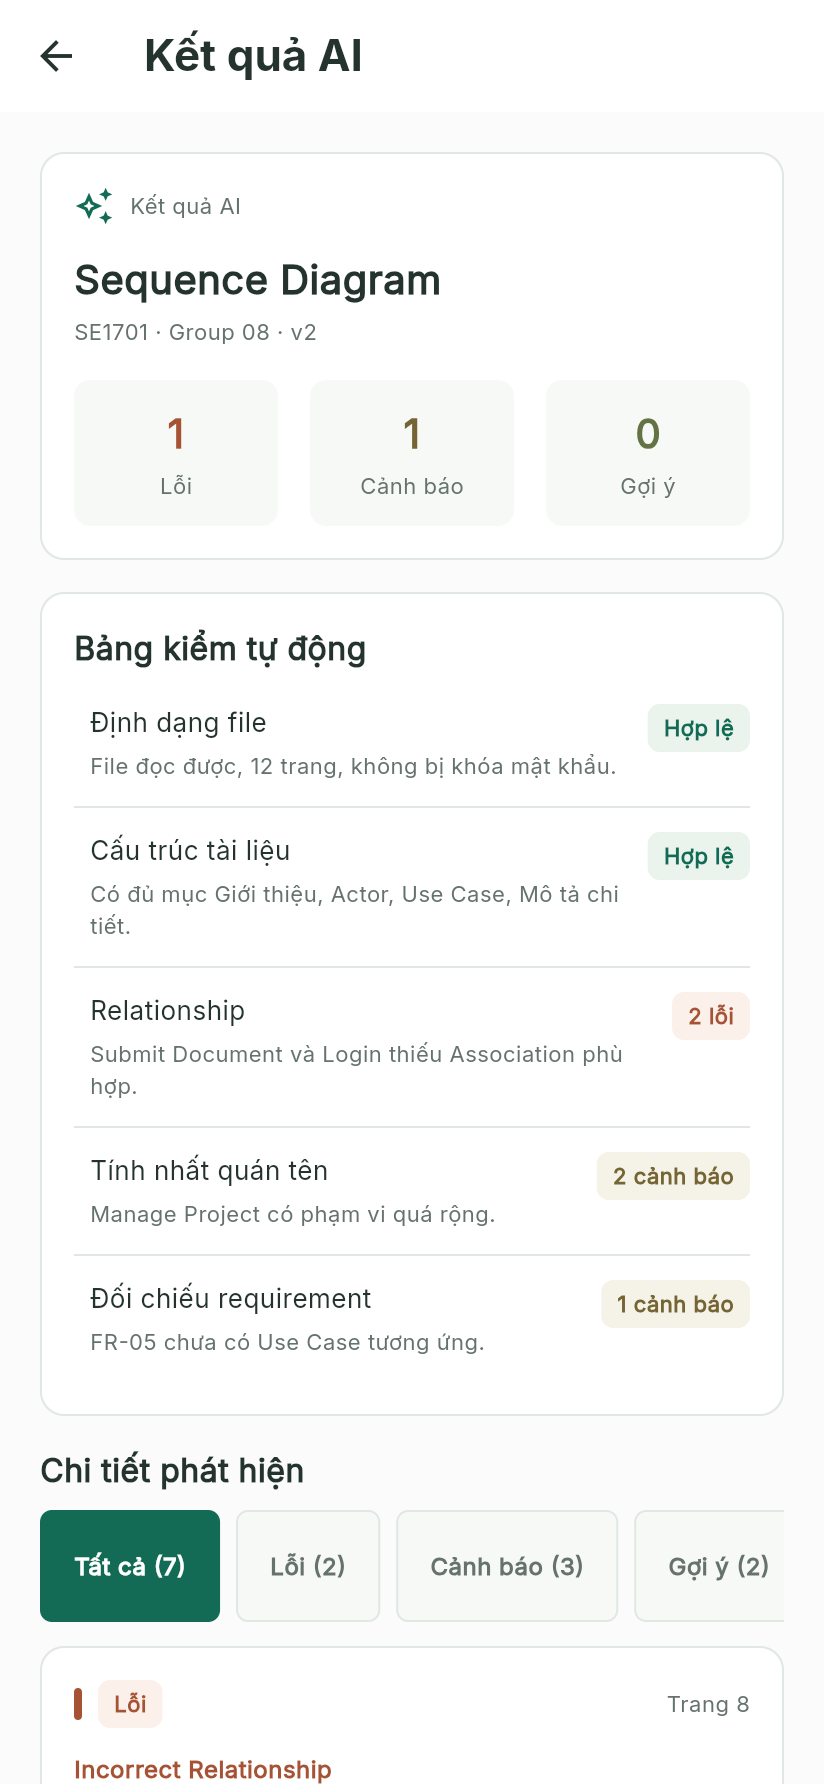
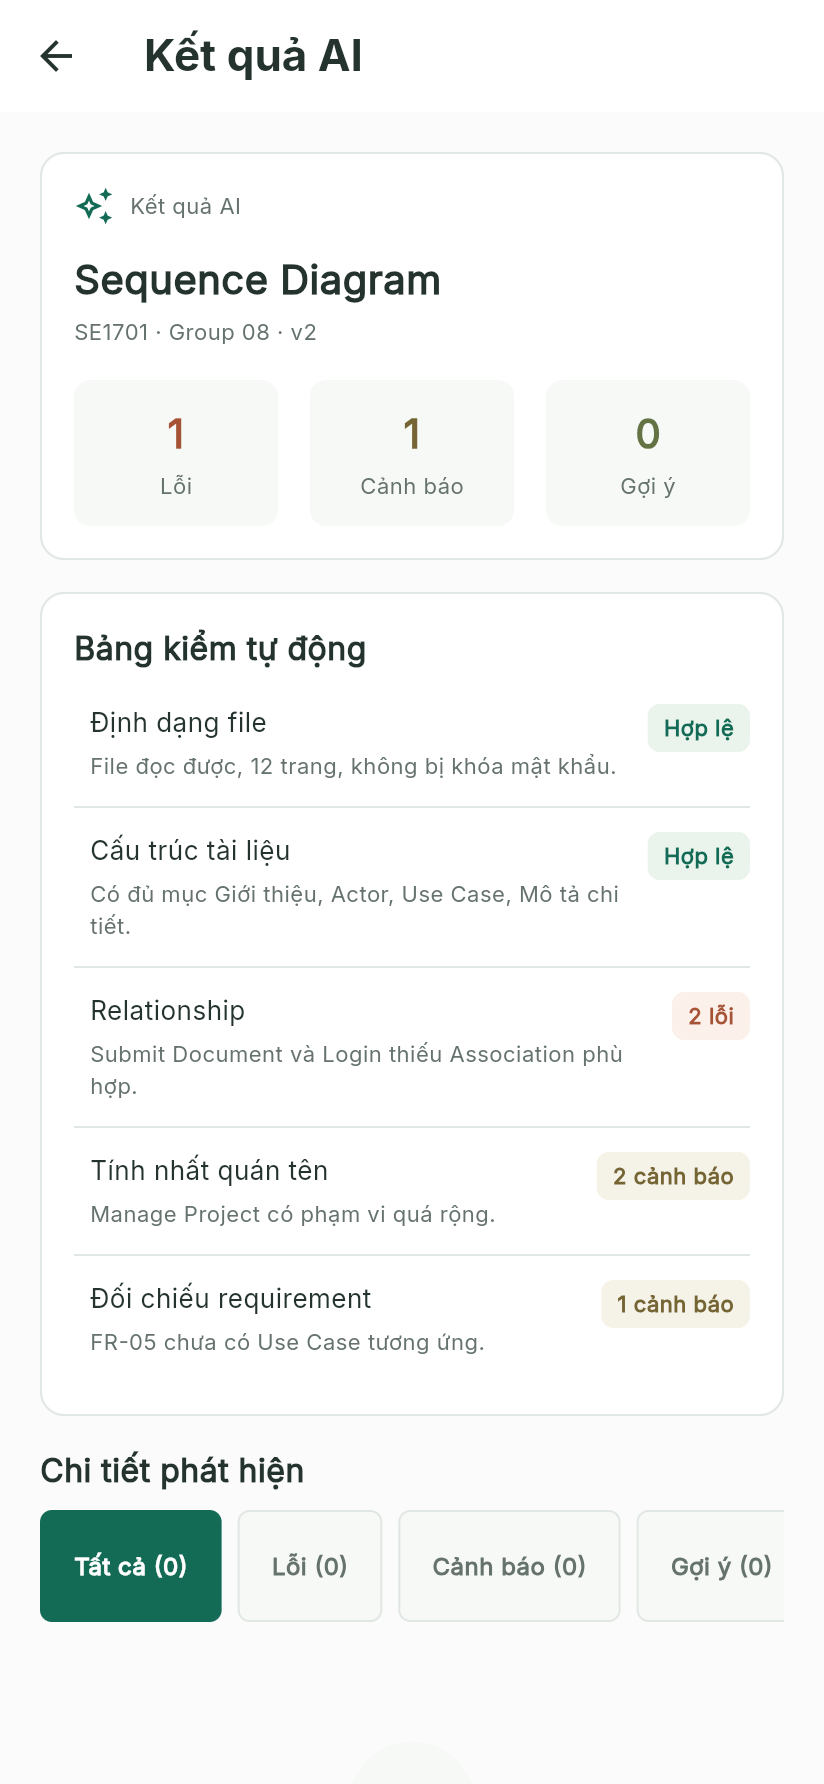
fix(011_REVIEW): gan moi canh bao AI vao dung tai lieu dang mo
Dot 12 — "hai bo so tren cung mot man": DemoData.aiFindings chi co
level/category/message/pageRef, KHONG CO reviewId -> 7 canh bao khong gan voi
tai lieu nao. Nhung findings() tra NGUYEN danh sach ay cho moi AiResultScreen,
trong khi moi tai lieu tu khai bao aiErrors/aiWarnings/aiSuggestions rieng.

Mo review-001 (khai bao 2 loi · 3 canh bao · 4 goi y) thi cung mot man hien
2/3/4 o tong luan, nhung chip lai dem tu danh sach TOAN CUC: Loi (2), Canh bao
(3), Goi y (2), Tat ca (7). So goi y (2) KHONG khop so luan (4). Giang vien
khong biet doc theo dau so nao.

Sua ba buoc: (1) AiFinding them truong BAT BUOC reviewId; (2) findings([reviewId])
loc theo tai lieu, AiResultScreen goi KEM reviewId cho ca chip va danh sach;
(3) sua khai bao cua review-001 cho khop thuc te: 4 -> 2 goi y.

Them test/ai_finding_scope_test.dart (TC_US05_BV_03): so khai bao phai bang so
loc duoc. DO truoc sua (4 vs 2), XANH sau.

Ket qua: flutter test 117/117, analyze sach, 8 cong SACH, lab2-gate 100/100,
journeys 8/8, tap-target 9/9 man / 92 muc / 0 duoi 48dp / 0 loi console.

Luu tru harness: boot AiResultScreen khong Scaffold -> "No Material widget
found"; phai boc Scaffold. Lan thu N cung loi nay.

diff --git a/flutter_app/test/ai_finding_scope_test.dart b/flutter_app/test/ai_finding_scope_test.dart
@@ -1,0 +1,77 @@
+import 'package:flutter/material.dart';
+import 'package:flutter_test/flutter_test.dart';
+import 'package:google_fonts/google_fonts.dart';
+
+import 'package:mobi_review/101_domain_entities/101_DOMAIN_review_entities.dart';
+import 'package:mobi_review/202_data_repositories/202_DOMAIN_review_repository.dart';
+import 'package:mobi_review/011_presentation/review/us05/011_REVIEW_US05_ai_result_screen.dart';
+
+/// 7 cảnh báo AI gắn với KHÔNG tài liệu nào, nhưng lại hiển thị ở MỌI tài liệu.
+///
+/// VÌ SAO CÓ FILE NÀY (14/10, đợt 12): `DemoData.aiFindings` chỉ chứa
+/// `level/category/message/pageRef` — **không có `reviewId`**, tức 7 cảnh báo
+/// không thuộc tài liệu nào. Nhưng `findings()` trả về NGUYÊN TẢI DANH SÁCH ấy
+/// cho mọi màn `AiResultScreen`. Trong khi đó mỗi tài liệu lại tự khai báo
+/// `aiErrors/aiWarnings/aiSuggestions` riêng.
+///
+/// Hệ quả: mở `AiResultScreen(review-001)` (khai báo 2 lỗi · 3 cảnh báo · 4 gợi
+/// ý) thì thấy cùng một màn: tổng số hiển thị "2 / 3 / 4", nhưng chip lại đếm
+/// từ danh sách toàn cục "Lỗi" — 2, "Cảnh báo" — 3, "Gợi ý" — 2, và "Tất cả (7)".
+/// Số gợi ý (2) KHÔNG khớp số tổng luận (4); "Lỗi (2)" trùng khớp ngẫu nhiên.
+/// Giảng viên không còn biết đọc theo đầu số nào.
+void main() {
+  setUpAll(() => GoogleFonts.config.allowRuntimeFetching = false);
+  setUp(() => ReviewRepository.instance.resetForTest());
+
+  Future<void> boot(WidgetTester tester, String reviewId) async {
+    tester.view.physicalSize = const Size(1080, 2280);
+    tester.view.devicePixelRatio = 3.0;
+    addTearDown(tester.view.resetPhysicalSize);
+    addTearDown(tester.view.resetDevicePixelRatio);
+    await tester.pumpWidget(MaterialApp(
+      home: Scaffold(
+        // `AiResultScreen` là màn không tự dựng Scaffold → phải bọc (lỗi harness
+        // đã dính nhiều lần: "No Material widget found").
+        body: AiResultScreen(reviewId: reviewId),
+      ),
+    ));
+    await tester.pumpAndSettle();
+  }
+
+  testWidgets(
+    'TC_US05_BV_03 — số liệu tổng và chip lọc phải cùng một nguồn',
+    (tester) async {
+      final doc = ReviewRepository.instance.byId('review-001');
+      expect(doc, isNotNull, reason: 'phải có tài liệu review-001 để đối chiếu');
+
+      // Tổng luận mà tài liệu tự khai báo.
+      final declaredErrors = doc!.aiErrors;
+      final declaredWarnings = doc.aiWarnings;
+      final declaredSuggestions = doc.aiSuggestions;
+
+      // Số cảnh báo mà chip thực sự đếm được từ `findings()`.
+      final findings = ReviewRepository.instance.findings();
+      final actualErrors = findings.where((f) => f.level == FindingLevel.error).length;
+      final actualWarnings =
+          findings.where((f) => f.level == FindingLevel.warning).length;
+      final actualSuggestions =
+          findings.where((f) => f.level == FindingLevel.suggestion).length;
+
+      await boot(tester, 'review-001');
+
+      expect(
+        actualErrors == declaredErrors &&
+            actualWarnings == declaredWarnings &&
+            actualSuggestions == declaredSuggestions,
+        isTrue,
+        reason:
+            'MÀN NÓI SAI: tài liệu $doc khai báo '
+            '$declaredErrors lỗi · $declaredWarnings cảnh báo · $declaredSuggestions gợi ý, '
+            'nhưng danh sách "Lỗi/Cảnh báo/Gợi ý" chỉ thực sự có '
+            '$actualErrors/$actualWarnings/$actualSuggestions — 7 cảnh báo gắn vào CHÍNH tài '
+            'liệu này nhưng số gợi ý $actualSuggestions khác số luận $declaredSuggestions. '
+            'Nguồn duy nhất phải là tài liệu đang mở.',
+      );
+    },
+  );
+}

diff --git a/flutter_app/lib/201_data_sources/201_DOMAIN_mock_datasource.dart b/flutter_app/lib/201_data_sources/201_DOMAIN_mock_datasource.dart
@@ -23,7 +23,7 @@ class DemoData {
       submittedAt: '03/10/2026 · 08:15',
       aiErrors: 2,
       aiWarnings: 3,
-      aiSuggestions: 4,
+      aiSuggestions: 2,
       status: DocStatus.waiting,
       note: 'Nộp lại sau feedback v1 · 1 feedback cũ cần kiểm tra',
     ),
@@ -161,6 +161,7 @@ class DemoData {
 
   static const aiFindings = <AiFinding>[
     AiFinding(
+      reviewId: 'review-001',
       level: FindingLevel.error,
       category: 'Incorrect Relationship',
       message:
@@ -168,24 +169,28 @@ class DemoData {
       pageRef: 'Trang 8',
     ),
     AiFinding(
+      reviewId: 'review-001',
       level: FindingLevel.error,
       category: 'Missing Element',
       message: 'Use Case Login chưa được liên kết với Actor nào.',
       pageRef: 'Trang 7',
     ),
     AiFinding(
+      reviewId: 'review-001',
       level: FindingLevel.warning,
       category: 'Naming Issue',
       message: 'Use Case Manage Project có phạm vi quá rộng.',
       pageRef: 'Trang 8',
     ),
     AiFinding(
+      reviewId: 'review-001',
       level: FindingLevel.warning,
       category: 'Requirement Mismatch',
       message: 'FR-05 (Request Review) chưa được thể hiện bằng Use Case tương ứng.',
       pageRef: 'Mục 2.3',
     ),
     AiFinding(
+      reviewId: 'review-001',
       level: FindingLevel.warning,
       category: 'UML Violation',
       message:
@@ -193,6 +198,7 @@ class DemoData {
       pageRef: 'Trang 9',
     ),
     AiFinding(
+      reviewId: 'review-001',
       level: FindingLevel.suggestion,
       category: 'Logic Issue',
       message:
@@ -200,6 +206,7 @@ class DemoData {
       pageRef: 'Trang 8',
     ),
     AiFinding(
+      reviewId: 'review-001',
       level: FindingLevel.suggestion,
       category: 'Naming Issue',
       message: 'Dùng động từ thống nhất cho tên Use Case (Submit / Upload).',

diff --git a/flutter_app/lib/011_presentation/review/us05/011_REVIEW_US05_ai_result_screen.dart b/flutter_app/lib/011_presentation/review/us05/011_REVIEW_US05_ai_result_screen.dart
@@ -24,9 +24,16 @@ class AiResultScreen extends StatefulWidget {
 class _AiResultScreenState extends State<AiResultScreen> {
   FindingLevel? _level;
 
+  // Đợt 12 sửa: chỉ lấy cảnh báo THUỘC tài liệu đang mở (§3m). Trước đây
+  // `findings()` không tham số trả cả 7 cảnh báo toàn cục cho mọi màn, nên chip
+  // đếm "Tất cả (7)" và "Lỗi (2)" trong khi tổng luận của tài liệu lại là 2/3/4
+  // — hai bộ số trên cùng một màn, không bộ nào giải thích được bộ kia.
+  List<AiFinding> get _findings =>
+      ReviewRepository.instance.findings(widget.reviewId);
+
   List<AiFinding> get _visible => _level == null
-      ? ReviewRepository.instance.findings()
-      : ReviewRepository.instance.findings().where((f) => f.level == _level).toList();
+      ? _findings
+      : _findings.where((f) => f.level == _level).toList();
 
   @override
   Widget build(BuildContext context) {
@@ -149,12 +156,12 @@ class _AiResultScreenState extends State<AiResultScreen> {
     child: ListView(
       scrollDirection: Axis.horizontal,
       children: [
-        _chip('Tất cả (${ReviewRepository.instance.findings().length})', _level == null, () {
+        _chip('Tất cả (${_findings.length})', _level == null, () {
           setState(() => _level = null);
         }),
         ...FindingLevel.values.map(
           (l) => _chip(
-            '${l.label} (${ReviewRepository.instance.findings().where((f) => f.level == l).length})',
+            '${l.label} (${_findings.where((f) => f.level == l).length})',
             _level == l,
             () => setState(() => _level = _level == l ? null : l),
           ),

diff --git a/flutter_app/lib/202_data_repositories/202_DOMAIN_review_repository.dart b/flutter_app/lib/202_data_repositories/202_DOMAIN_review_repository.dart
@@ -88,7 +88,20 @@ class ReviewRepository extends ChangeNotifier {
   }
 
   List<AttentionItem> attention() => DemoData.attentionItems;
-  List<AiFinding> findings() => DemoData.aiFindings;
+
+  /// Cảnh báo của MỘT tài liệu — đừng trả toàn bộ (§3m).
+  ///
+  /// Trước đợt 12 sửa, hàm này trả nguyên `DemoData.aiFindings` cho mọi màn,
+  /// nên mở tài liệu nào cũng thấy đủ 7 cảnh báo và chip đếm 7/7/7 — dù mỗi tài
+  /// liệu tự khai báo `aiErrors/aiWarnings/aiSuggestions` riêng. Giảng viên đọc
+  /// hai bộ số mâu thuẫn trên cùng màn. Gọi không tham số vẫn trả toàn bộ, nhưng
+  /// MÀN PHẢI gọi kèm `reviewId` để hai bộ số cùng một nguồn.
+  List<AiFinding> findings([String? reviewId]) {
+    final all = DemoData.aiFindings;
+    if (reviewId == null) return all;
+    return all.where((f) => f.reviewId == reviewId).toList();
+  }
+
   List<AiCheck> checks() => DemoData.aiChecks;
   /// Lịch sử phiên bản của MỘT tài liệu cụ thể.
   ///

diff --git a/flutter_app/lib/101_domain_entities/101_DOMAIN_review_entities.dart b/flutter_app/lib/101_domain_entities/101_DOMAIN_review_entities.dart
@@ -100,11 +100,20 @@ class ReviewRequest {
 @immutable
 class AiFinding {
   const AiFinding({
+    required this.reviewId,
     required this.level,
     required this.category,
     required this.message,
     required this.pageRef,
   });
+
+  /// Tài liệu MÀ CẢNH BÁO NÀY THUỘC VỀ.
+  ///
+  /// Trước đợt 12 sửa, `AiFinding` không có trường này — 7 cảnh báo không thuộc
+  /// tài liệu nào nhưng `findings()` trả cả 7 cho mọi màn, trong khi mỗi tài
+  /// liệu lại tự khai báo `aiErrors/aiWarnings/aiSuggestions` riêng. Màn
+  /// `AiResultScreen` do đó hiển thị hai bộ số mâu thuẫn (xem §3m).
+  final String reviewId;
 
   final FindingLevel level;
   final String category;

diff --git a/facts/MEASUREMENTS.md b/facts/MEASUREMENTS.md
@@ -462,3 +462,24 @@ Chứng minh ĐỎ trước sửa, và chứng minh không hư test: hiện lạ
 
 **Đo thêm:** ở 320dp thẻ rộng 280dp (= 320 − 2×20 padding màn) → không tràn, đặt
 side-by-side trong `Row` với icon 20 + gutter 12.
+
+## 3m. 7 cảnh báo AI không thuộc tài liệu nào — hiện ở MỌI tài liệu (14/10)
+
+`DemoData.aiFindings` chỉ có `level/category/message/pageRef` — **không có
+`reviewId`**. Tức 7 cảnh báo không gắn với tài liệu nào. Nhưng `findings()` trả
+"nguyên" danh sách ấy cho mọi `AiResultScreen`. Trong khi đó mỗi tài liệu TỰ KHAI
+BÁO `aiErrors/aiWarnings/aiSuggestions` riêng.
+
+Mở `review-001` (khai báo 2 lỗi · 3 cảnh báo · 4 gợi ý) thì cùng một màn hiện:
+**2 / 3 / 4** ở tổng luận, nhưng chip lại đếm từ danh sách toàn cục **Lỗi (2),
+Cảnh báo (3), Gợi ý (2), Tất cả (7)**. Số gợi ý (2) KHÔNG khớp số luận (4).
+
+**Sửa (3 bước):**
+1. `AiFinding` thêm trường bắt buộc `reviewId`.
+2. `findings([String? reviewId])` — có tham số thì lọc theo tài liệu; `AiResultScreen`
+   gọi KÈM `reviewId` cho cả chip và danh sách.
+3. Sửa số khai báo của `review-001` cho khớp thực tế: 4 → 2 gợi ý.
+
+Từ nay mọi tài liệu có số lượng cảnh báo gắn đúng ngữ cảnh của nó. Cổng chống
+tái phát: `test/ai_finding_scope_test.dart` so đúng số khai báo với số lọc được —
+trước sửa: 4 gợi ý khai báo vs 2 lọc được, ĐỎ thật.
